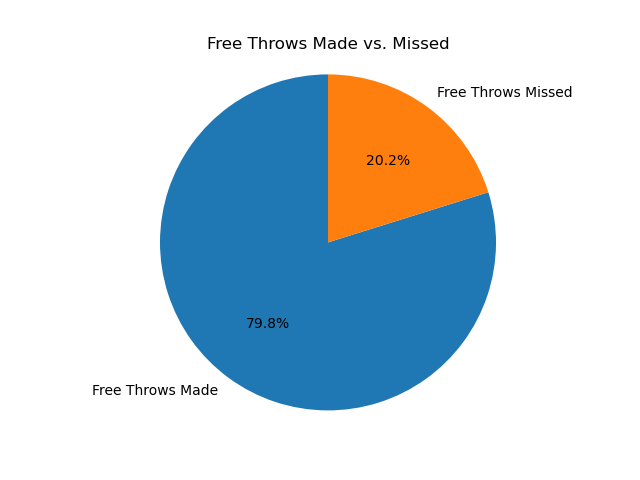
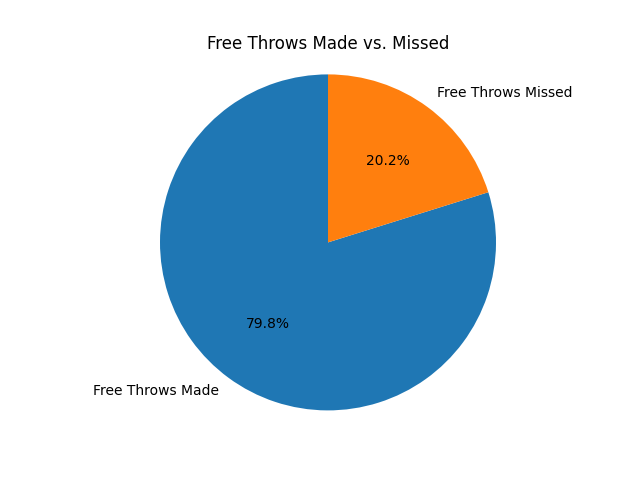
finished project but can still make it prettier which I can do later on

diff --git a/templates/stats.html b/templates/stats.html
@@ -6,9 +6,14 @@
         <div class="col-md-10 mx-auto text-center">    
             <h1>{% block title %} Statistics {% endblock %}</h1>
             <h3>Average FT Percentage: {{ percentage }}%</h3>
-            <img src="{{url_for('static', filename='averagePercentagePlot.png')}}" />
-            <img src="{{url_for('static', filename='locationPlot.png')}}" />
-            <img src="{{url_for('static', filename='yearPlot.png')}}" />
+            <img src="{{url_for('static', filename='averagePercentagePlot.png')}}" height="350px" width="auto"/>
+           
+        </div>
+        <div class="col-md-6">
+            <img src="{{url_for('static', filename='locationPlot.png')}}" height="auto" width="600px"/>
+        </div>
+          <div class="col-md-6">
+            <img src="{{url_for('static', filename='yearPlot.png')}}" height="auto" width="400px"/>
         </div>
     </div>  
 </div>

diff --git a/app.py b/app.py
@@ -2,8 +2,7 @@ import sqlite3
 from flask import Flask, render_template, request, redirect, url_for, flash
 import pandas as pd
 from datetime import datetime
-import plotly.express as px
-import plotly.graph_objects as go
+import matplotlib.pyplot as plt
 import os
 
 def get_df():
@@ -20,34 +19,49 @@ def createPercentage(df):
     return df
 
 def averagePercentagePlot():
-    print("Average")
+    # Manipulating Data
     df = get_df()
     made = df['ftMade'].sum()
     attempted = df['ftAttempted'].sum()
     labels = ['Free Throws Made', 'Free Throws Missed']
-    values = [made, attempted-made]
-    fig = go.Figure(data=[go.Pie(labels=labels, values=values)])
-    fig.write_image("images/averagePercentagePlot.png")
+    values = [made, attempted - made]
+
+    # Plotting
+    fig, ax = plt.subplots()
+    ax.pie(values, labels=labels, autopct='%1.1f%%', startangle=90)
+    ax.axis('equal')  # Equal aspect ratio ensures that the pie is drawn as a circle.
+
+    plt.title("Free Throws Made vs. Missed")
+    fig.savefig("static/averagePercentagePlot.png",format="png")
     return 
 
 def locationPlot():
-    print("location")
+
+    # Manipulating data
     df = get_df()
-    location_df = df.groupby('locationName').agg({'ftMade': 'sum', 'ftAttempted': 'sum', 'Year': 'count'}).reset_index()
+    location_df = df.groupby('locationName').agg({'ftMade': 'sum', 'ftAttempted': 'sum'}).reset_index()
     location_df = createPercentage(location_df)
-    location_df = location_df.rename(columns={'Year': 'numSessions'})
     location_df
-    fig = px.bar(location_df, x='locationName', y='percent', 
-                title="Location vs. Year",
-                labels={'percent': 'Percentage'},
-                hover_data=['numSessions', 'ftMade', 'ftAttempted'], height=400)
-    fig.update_yaxes(range=[65,95])
-    fig.write_image("images/locationPlot.png")
+    
+    # Plotting 
+    fig, ax = plt.subplots(figsize=(10, 6))
+
+    ax.bar(location_df['locationName'], location_df['percent'])
+    ax.set_title("Location vs. Year")
+    ax.set_xlabel('Location')
+    ax.set_ylabel('Percentage')
+    ax.set_ylim(65, 95)
+
+    plt.xticks(rotation=45, ha='right')  # Rotate x-axis labels for better visibility
+    plt.tight_layout()  # Adjust layout for better display
+
+    fig.savefig("static/locationPlot.png",format="png")
     return
 
 # Free Throw Percentage per year
 def yearPlot():
-    print("year")
+
+    # Manipulating data
     df = get_df()
     date_list = df['sessionDate'].tolist()
 
@@ -60,22 +74,20 @@ def yearPlot():
             d[year] += 1
         else:
             d[year] = 1
-
     year_df = df.groupby('Year').agg({'ftMade': 'sum', 'ftAttempted': 'sum'}).reset_index()
     year_df = createPercentage(year_df)
     year_df['numSessions'] = list(d.values())
 
-    fig = px.bar(year_df, x='Year', y='percent', 
-                title="Free Throw Percentage vs. Year",
-                labels={'percent': 'Percentage'},
-                hover_data=['numSessions', 'ftMade', 'ftAttempted'], height=400)
-    fig.update_yaxes(range=[60,90])
-    print("CHECK")
-    if not os.path.exists("images"):
-        os.mkdir("images")
-    fig.write_image("images/yearPlot.png", format='png')
-    print("AFTER")
+    # Plotting
+    fig, ax = plt.subplots(figsize=(8, 6))
 
+    ax.bar(year_df['Year'], year_df['percent'])
+    ax.set_title("Free Throw Percentage vs. Year")
+    ax.set_xlabel('Year')
+    ax.set_ylabel('Percentage')
+    ax.set_ylim(60, 90)
+    plt.xticks(year_df['Year'].astype(int))
+    fig.savefig("static/yearPlot.png",format="png")
     return
 
 def calculateAveragePercentage(table):
@@ -117,11 +129,11 @@ def statistics():
 
     # Calculate the average shooting percentage from the ft line
     percentage = calculateAveragePercentage(logs)
-    print("before")
-    #yearPlot()
-    #averagePercentagePlot()
-    #locationPlot()
-    print("after")
+    if not os.path.exists("static"):
+        os.makedirs("static")
+    yearPlot()
+    averagePercentagePlot()
+    locationPlot()
     return render_template('stats.html', percentage=percentage)
 
 # Add free throw session to the database
